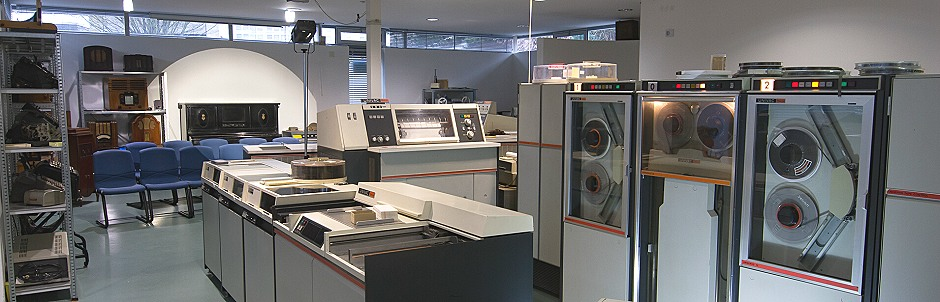
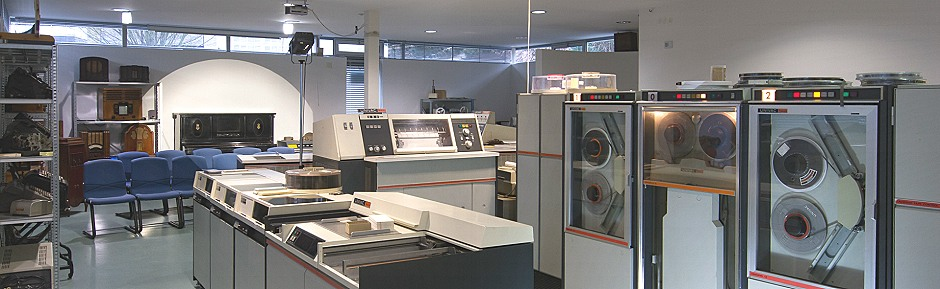
Headerbild entzerrt, Gebäudebild verschoben
git-svn-id: https://www.technikum29.de/svn/technikum29-www@1414 388e7c26-a98e-49f6-8d48-46b9a15b27c2

diff --git a/de/index.php b/de/index.php
@@ -11,7 +11,7 @@
 	Vergangenheit verstehen <br>
 	<span class="subtext">Zukunft gestalten</span>
 	</h2>
-	<img class="no-copyright" src="/shared/photos/start/startseite.jpg" width="940" height="302">
+	<img class="no-copyright" src="/shared/photos/start/startseite.jpg" width="940" height="289">
 </header>
 
 
@@ -54,25 +54,26 @@
       </div><!--leftcol-->
 
       <div class="rightcol">
-	  <div class="foto">
-                <img src="/shared/photos/start/museum.jpg" alt="Photo des Museums" width="338" height="228" />
-                <p>Das Museumsgebäude</p>
-        </div>
+	 
 	  
 	  <div class="erwartung">
             <h2>Was wird geboten ?</h2>
             <ul>
                 <li>Alle Führungen werden so gestaltet, dass sie auch für "Laien" unterhaltend und informativ sind. Eine Führung dauert in der Regel ca. 90 spannende Minuten und umfasst vorwiegend funktionsfähige, großformatige Technik.<br>
 				Der Besuch des technikum29 ohne Führung macht keinen Sinn, deshalb sind Einzelbesuche nur in Ausnahmefällen möglich.
-								
-				</li>
+			</li>
             </ul>
 	  </div>
+	  <br>
 	  
+	   <div class="foto">
+                <img src="/shared/photos/start/museum.jpg" alt="Photo des Museums" width="338" height="228" />
+                <p>Das Museumsgebäude</p>
+        </div>
 	  
         
         
-        <div class="wann"><br>
+        <div class="wann">
             <h2>Wann&nbsp;?</h2>
             <ul>
 			
